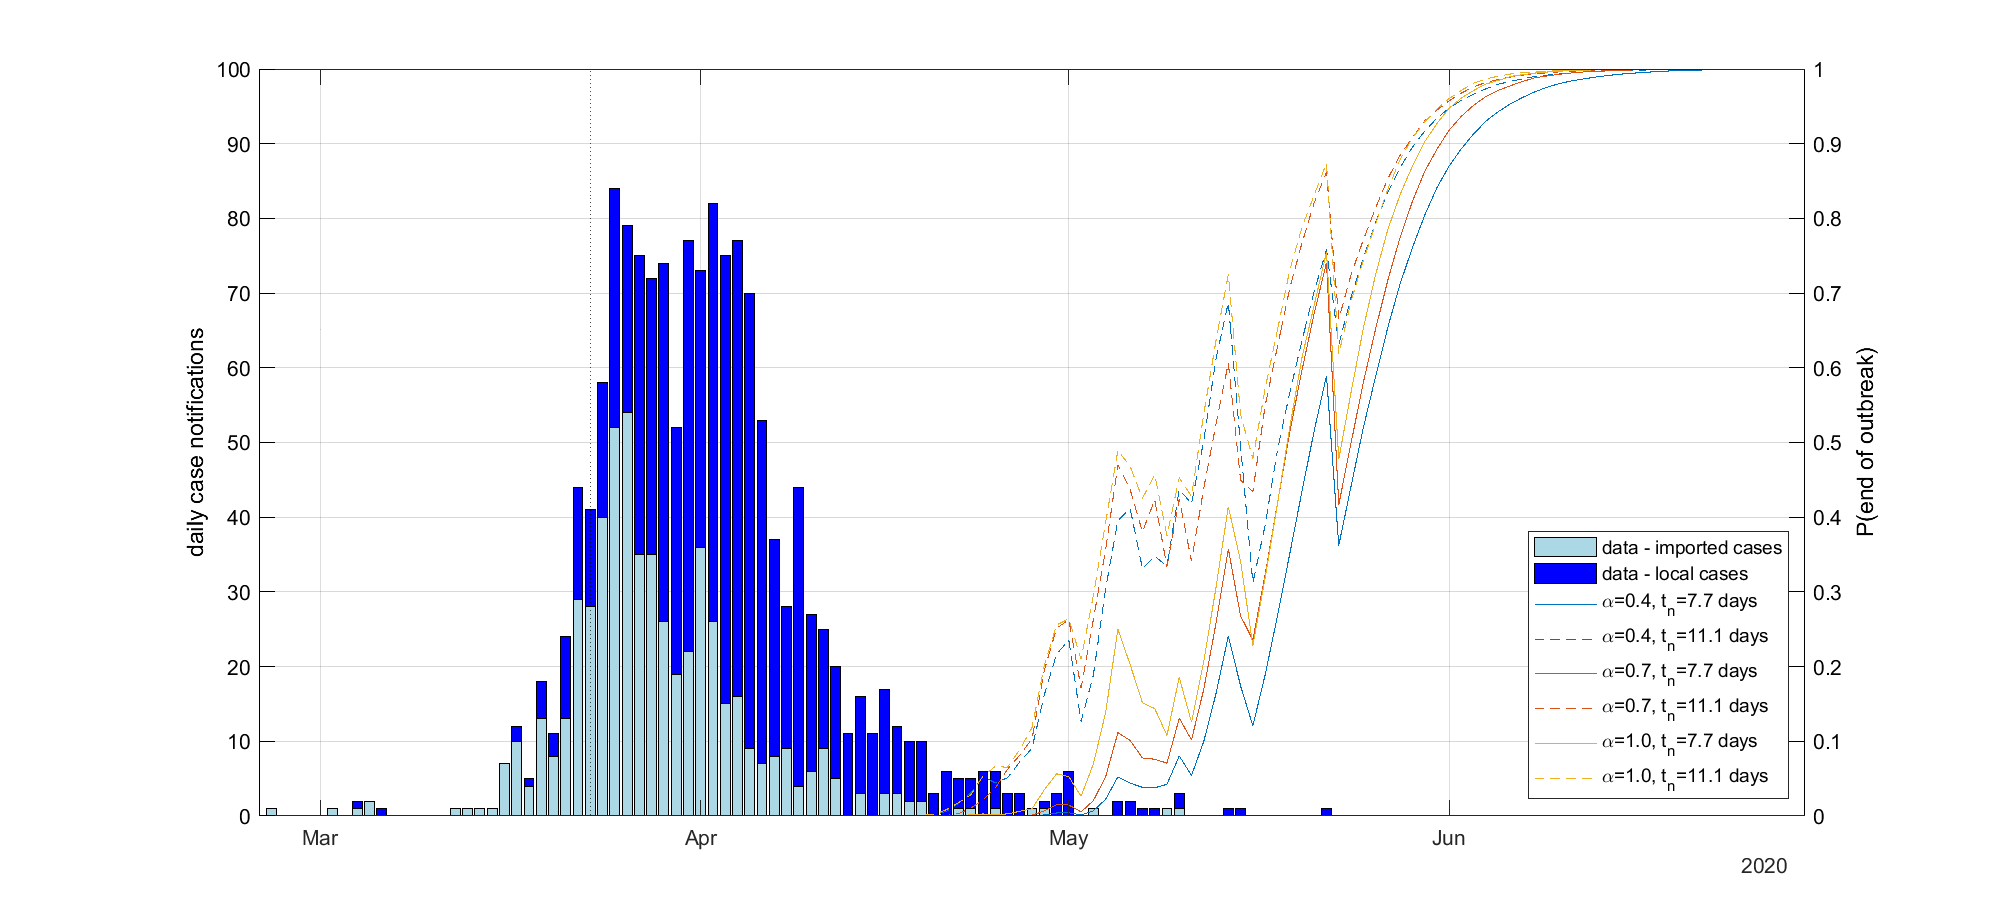
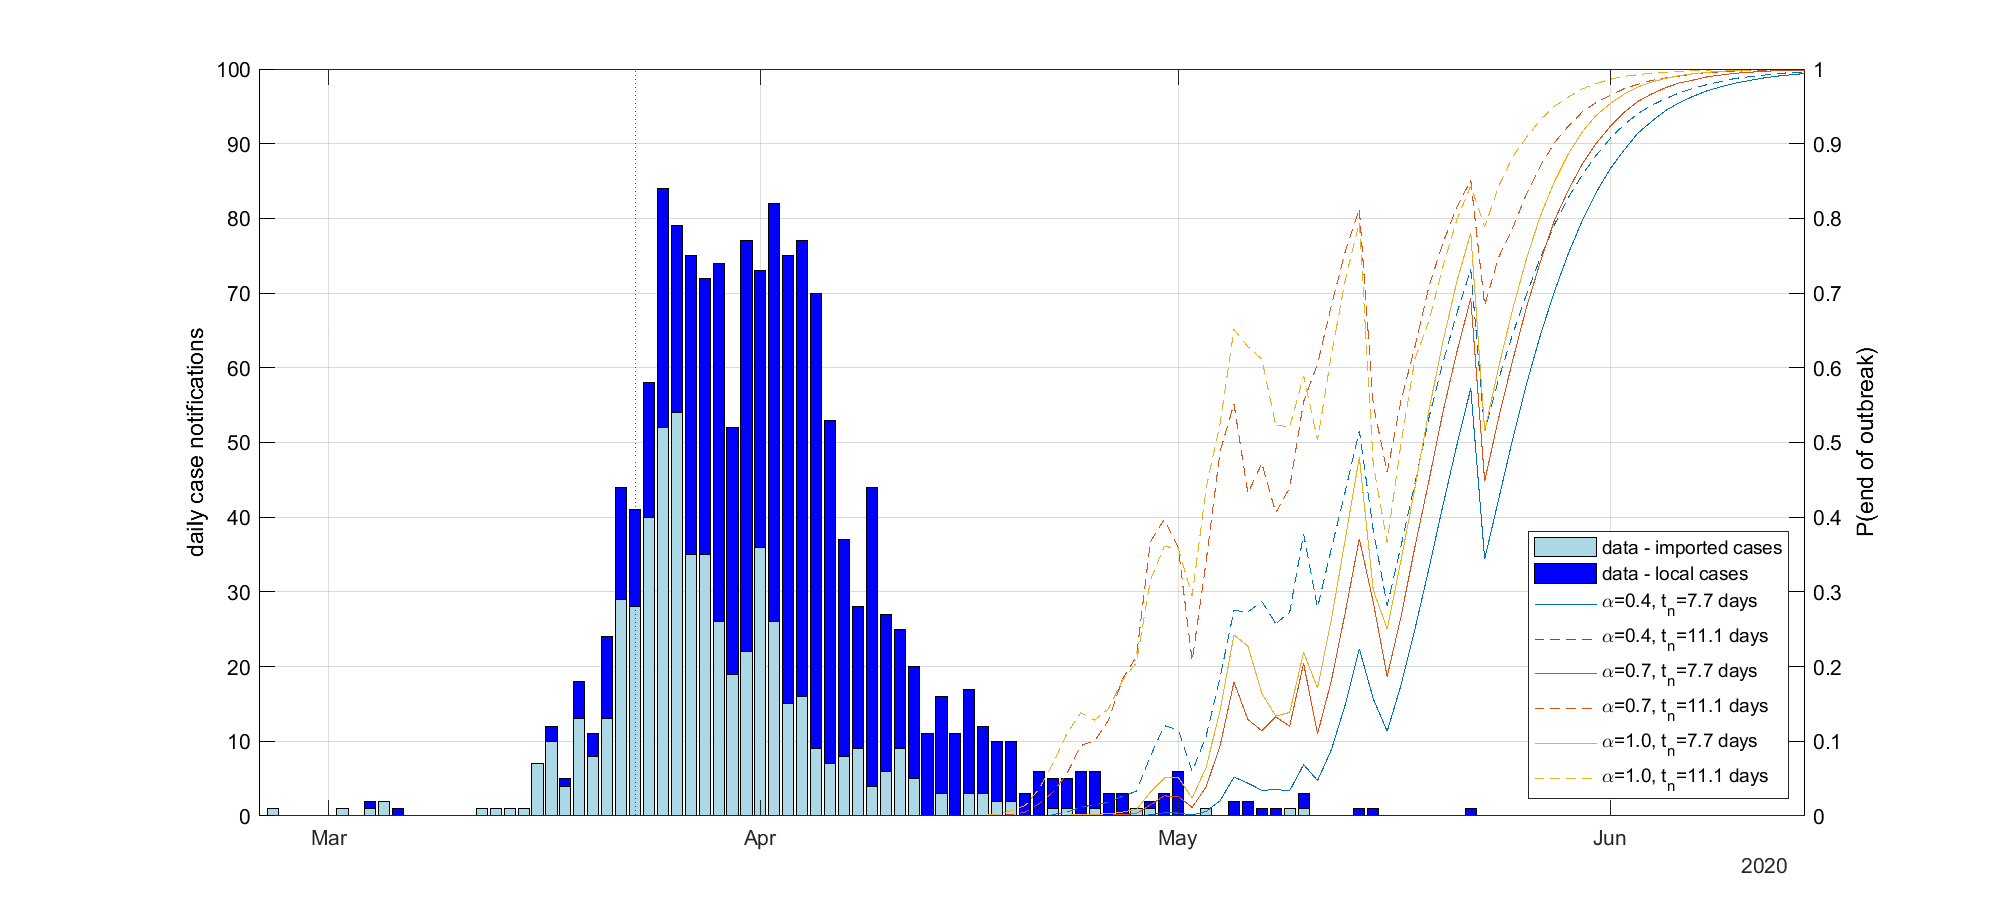
Minor change to date assignments
Change in main.m to allow for the case where the time vector t ends earlier than the time series data.

Updated set of results.

diff --git a/results/table.tex b/results/table.tex
@@ -2,14 +2,14 @@
 \hline
 \multicolumn{3}{l}{ \bf Covid-19} \\ 
  &  $t_n=7.7$ days & $t_n=11.2$ days \\ 
-$\alpha=0.4$ & 06-Jun-2020 & 02-Jun-2020 \\ 
- $\alpha=0.7$ & 03-Jun-2020 & 01-Jun-2020 \\ 
- $\alpha=1.0$ & 02-Jun-2020 & 01-Jun-2020 \\ 
+$\alpha=0.4$ & 06-Jun-2020 & 04-Jun-2020 \\ 
+ $\alpha=0.7$ & 03-Jun-2020 & 31-May-2020 \\ 
+ $\alpha=1.0$ & 01-Jun-2020 & 28-May-2020 \\ 
  \hline
 \multicolumn{3}{l}{ \bf Ebola} \\ 
  &  $t_n=6.2$ days & $t_n=11.2$ days \\ 
-$\alpha=0.8$ & 01-Aug-2018 & 02-Aug-2018 \\ 
- $\alpha=0.9$ & 30-Jul-2018 & 27-Jul-2018 \\ 
- $\alpha=1.0$ & 27-Jul-2018 & 23-Jul-2018 \\ 
+$\alpha=0.8$ & 31-Jul-2018 & 24-Jul-2018 \\ 
+ $\alpha=0.9$ & 27-Jul-2018 & 22-Jul-2018 \\ 
+ $\alpha=1.0$ & 24-Jul-2018 & 21-Jul-2018 \\ 
  \hline
 \end{tabular} 

diff --git a/code/main.m b/code/main.m
@@ -44,8 +44,8 @@ for iOutbreak = 1:nOutbreaks
         % Copy imported data onto the time array returned by getPar
         nCasesLoc = zeros(size(t));
         nCasesImp = zeros(size(t));
-        nCasesLoc(ismember(t, processed.t)) = processed.nCasesLoc;
-        nCasesImp(ismember(t, processed.t)) = processed.nCasesImp;
+        nCasesLoc(ismember(t, processed.t)) = processed.nCasesLoc(ismember(processed.t, t));
+        nCasesImp(ismember(t, processed.t)) = processed.nCasesImp(ismember(processed.t, t));
  
 
         %%%%%%%%%%%%%%%%%%%%%%%%%%%%%%%%%%%%%%%%%%%%%%%%%%%%%%%%%%%%%%%%%%%%%
